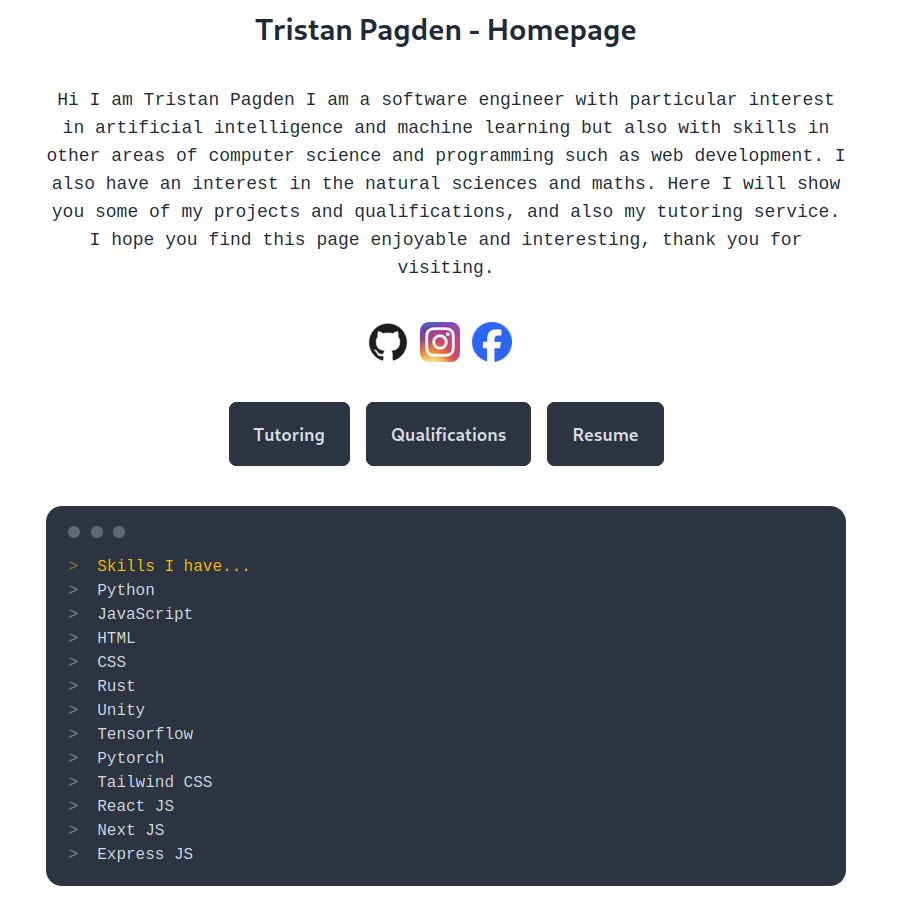
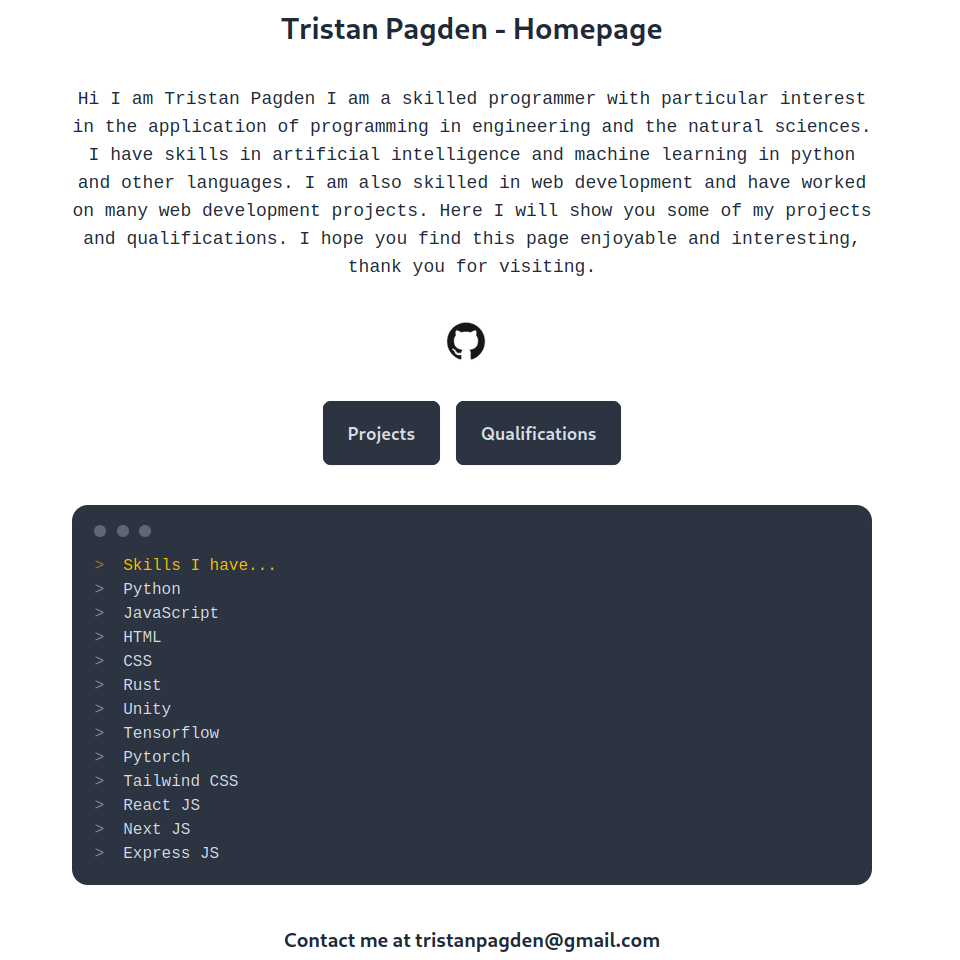
commit 11

Changed region(s): [[0.0311, 0.0933, 0.9644, 0.9956], [0.28, 0.0, 0.7156, 0.0622]]

diff --git a/src/app/page.js b/src/app/page.js
@@ -8,35 +8,24 @@ export default function Home() {
     <> 
       <div id='#about' className='text-center mx-auto mt-8 w-1/2'>
         <h1 className='mb-10 text-3xl font-bold text-center'>Tristan Pagden - Homepage</h1>
-        <code className='text-lg text-center pt-5'>Hi I am Tristan Pagden I am a software engineer with particular interest in artificial intelligence and machine learning but also with skills in other areas of computer science and programming such as web development. I also have an interest in the natural sciences and maths. Here I will show you some of my projects and qualifications, and also my tutoring service. I hope you find this page enjoyable and interesting, thank you for visiting.</code>
+        <code className='text-lg text-center pt-5'>Hi I am Tristan Pagden I am a skilled programmer with particular interest in the application of programming in engineering and the natural sciences. I have skills in artificial intelligence and machine learning in python and other languages. I am also skilled in web development and have worked on many web development projects. Here I will show you some of my projects and qualifications. I hope you find this page enjoyable and interesting, thank you for visiting.</code>
         <div className='mt-10'>
           <Link href='https://github.com/TristanPagden'>
           <Image src='/github.png' width={40} height={40} alt='github pic' className='inline mr-3 ' title='GitHub'></Image>
-          </Link>
-          <Link href='https://www.instagram.com/tutoringbytristan/'>
-          <Image src='/instagram.png' width={40} height={40} alt='instagram pic' className='inline mr-3 ' title='Instagram'></Image>
-          </Link>
-          <Link href='https://www.facebook.com/profile.php?id=61560820737450'>
-          <Image src='/facebook.png' width={40} height={40} alt='facebook pic' className='inline mr-3 ' title='Facebook'></Image>
           </Link>
         </div>
       </div>
       <div className='flex mx-auto mt-10 w-1/2 mx-auto'>
         <div className='flex mx-auto max-w-[1200px]'>
           <div className='flex flex-col px-2 mx-auto'>
-            <a href='/tutoring'>
-              <button className="btn btn-neutral btn-lg">Tutoring</button>
+            <a href='/projects'>
+              <button className="btn btn-neutral btn-lg">Projects</button>
             </a>      
           </div>
           <div className='flex flex-col px-2 mx-auto'>
             <a href='/qualifications'>
               <button className="btn btn-neutral btn-lg">Qualifications</button>
             </a>    
-          </div>
-          <div className='flex flex-col px-2 mx-auto'>
-            <a href='/resume'>
-              <button className="btn btn-neutral btn-lg">Resume</button>
-            </a>
           </div>
         </div>
       </div>
@@ -57,6 +46,7 @@ export default function Home() {
           <pre data-prefix=">"><code>Express JS</code></pre>
         </div>
       </div>
+      <h1 className='mt-1 mb-5 text-xl font-bold text-center'>Contact me at tristanpagden@gmail.com</h1>
     </>
   )
 }

diff --git a/src/components/Sidebar.js b/src/components/Sidebar.js
@@ -9,23 +9,15 @@ const Sidebar = () => {
         <a href='/' className='text-white w-full h-full text-center text-3xl'>tristanPagden</a>
       </code>
       <br/>
-      <a href='/' className='text-white italic text-xl mt-12 text-center inline-block'>Home</a>
+      <a href='/' className='text-white italic text-xl mt-12 text-center inline-block'>About</a>
       <br/>
       <a href='/projects' className='text-white italic text-xl mt-4 text-center inline-block'>Projects</a>
       <br/>
-      <a href='/CV.pdf' target="_blank" rel="noopener noreferrer" className='text-white italic text-xl mt-4 text-center inline-block'>Resume</a>
-      <br/>
-      <a href='/tutoring' className='text-white italic text-xl mt-4 text-center inline-block'>Tutoring</a>
+      <a href='/qualifications' className='text-white italic text-xl mt-4 text-center inline-block'>Qualifications</a>
       <br/>
       <div className='absolute bottom-10 left-6'>
         <Link href='https://github.com/TristanPagden'>
         <Image src='/github.png' width={36} height={36} alt='github pic' className='inline mr-3 ' title='GitHub'></Image>
-        </Link>
-        <Link href='https://www.instagram.com/tutoringbytristan/'>
-        <Image src='/instagram.png' width={36} height={36} alt='instagram pic' className='inline mr-3 ' title='Instagram'></Image>
-        </Link>
-        <Link href='https://www.facebook.com/profile.php?id=61560820737450'>
-        <Image src='/facebook.png' width={36} height={36} alt='facebook pic' className='inline mr-3 ' title='Facebook'></Image>
         </Link>
       </div>
       <h1 className='text-white font-bold text-sm bottom-3 left-5 text-center absolute'>Copyright ©. All rights reserved</h1>

diff --git a/src/app/qualifications/GCSEs/page.js b/src/app/qualifications/GCSEs/page.js
@@ -1,0 +1,29 @@
+import React from 'react'
+import QualLink from '@/components/QualLink'
+import BlogLink from '@/components/BlogLink'
+
+const AI = () => {
+  return (
+    <div className='w-full'>
+      <div role="tablist" className="tabs tabs-lifted tabs-lg">
+        <a href='/qualifications/AI' className='tab' role='tab'>Artificial Intelligence</a>
+        <a href='/qualifications/GCSEs' className='tab tab-active' role='tab'>GCSEs</a>
+        <a href='/qualifications/other' className='tab' role='tab'>Other</a>
+      </div>
+      <QualLink props={{title: "GCSE Maths", description: 'Grade 9', link: ''}} />
+      <QualLink props={{title: "GCSE Further Maths", description: 'Grade 9', link: ''}} />
+      <QualLink props={{title: "GCSE Physics", description: 'Grade 9', link: ''}} />
+      <QualLink props={{title: "GCSE Chemistry", description: 'Grade 9', link: ''}} />
+      <QualLink props={{title: "GCSE Biology", description: 'Grade 9', link: ''}} />
+      <QualLink props={{title: "GCSE Geography", description: 'Grade 9', link: ''}} />
+      <QualLink props={{title: "GCSE Computer science", description: 'Grade 8', link: ''}} />
+      <QualLink props={{title: "GCSE Design and technology", description: 'Grade 8', link: ''}} />
+      <QualLink props={{title: "GCSE English language", description: 'Grade 8', link: ''}} />
+      <QualLink props={{title: "GCSE Religious studies", description: 'Grade 8', link: ''}} />
+      <QualLink props={{title: "GCSE English literature", description: 'Grade 7', link: ''}} />
+      <QualLink props={{title: "GCSE Spanish", description: 'Grade 7', link: ''}} />
+    </div>
+  )
+}
+
+export default AI

diff --git a/src/app/qualifications/AI/page.js b/src/app/qualifications/AI/page.js
@@ -5,6 +5,11 @@ import BlogLink from '@/components/BlogLink'
 const AI = () => {
   return (
     <div className='w-full'>
+      <div role="tablist" className="tabs tabs-lifted tabs-lg">
+        <a href='/qualifications/AI' className='tab tab-active' role='tab'>Artificial Intelligence</a>
+        <a href='/qualifications/GCSEs' className='tab' role='tab'>GCSEs</a>
+        <a href='/qualifications/other' className='tab' role='tab'>Other</a>
+      </div>
       <QualLink props={{title: "Harvards CS50AI", description: 'Harvards CS50AI course', link: 'https://www.edx.org/learn/artificial-intelligence/harvard-university-cs50-s-introduction-to-artificial-intelligence-with-python'}} />
       <QualLink props={{title: "Kaggle Intro to Machine Learning",  description: 'A course on machine learning by Kaggle', link: 'https://www.edx.org/learn/artificial-intelligence/harvard-university-cs50-s-introduction-to-artificial-intelligence-with-python'}} />
       <QualLink props={{title: "Kaggle Intermediate Machine learning",  description: 'A course on intermediate machine learning by Kaggle', link: 'https://www.edx.org/learn/artificial-intelligence/harvard-university-cs50-s-introduction-to-artificial-intelligence-with-python'}} />

diff --git a/src/app/qualifications/other/page.js b/src/app/qualifications/other/page.js
@@ -1,0 +1,19 @@
+import React from 'react'
+import QualLink from '@/components/QualLink'
+import BlogLink from '@/components/BlogLink'
+
+const AI = () => {
+  return (
+    <div className='w-full'>
+      <div role="tablist" className="tabs tabs-lifted tabs-lg">
+        <a href='/qualifications/AI' className='tab' role='tab'>Artificial Intelligence</a>
+        <a href='/qualifications/GCSEs' className='tab' role='tab'>GCSEs</a>
+        <a href='/qualifications/other' className='tab tab-active' role='tab'>Other</a>
+      </div>
+      <QualLink props={{title: "NPLQ", description: 'NPLQ lifegaurding qualification', link: ''}} />
+      <QualLink props={{title: "Guitar", description: 'Grade 5', link: ''}} />
+    </div>
+  )
+}
+
+export default AI

diff --git a/src/app/qualifications/layout.js b/src/app/qualifications/layout.js
@@ -2,13 +2,7 @@
 export default function RootLayout({ children }) {
   return (
     <>
-    <h1 className='mt-3 mb-6 font-bold text-3xl'>Qualifications</h1>
-    <div className=''>
-      <a href='/projects/AI' className='text-xl bg-slate-600 hover:bg-slate-500 text-white font-bold p-1 mx-1'>Artificial Intelligence</a>
-      <a href='/projects/web' className='text-xl bg-slate-600 hover:bg-slate-500 text-white font-bold p-1 mx-1'>Web Development</a>
-      <a href='/projects/other' className='text-xl bg-slate-600 hover:bg-slate-500 text-white font-bold p-1 mx-1'>Other</a>
-    </div>
-    <br />
+    <h1 className='mt-5 mb-6 font-bold text-3xl'>Qualifications</h1>
     <div className=''>{children}</div>
   </>
   )
